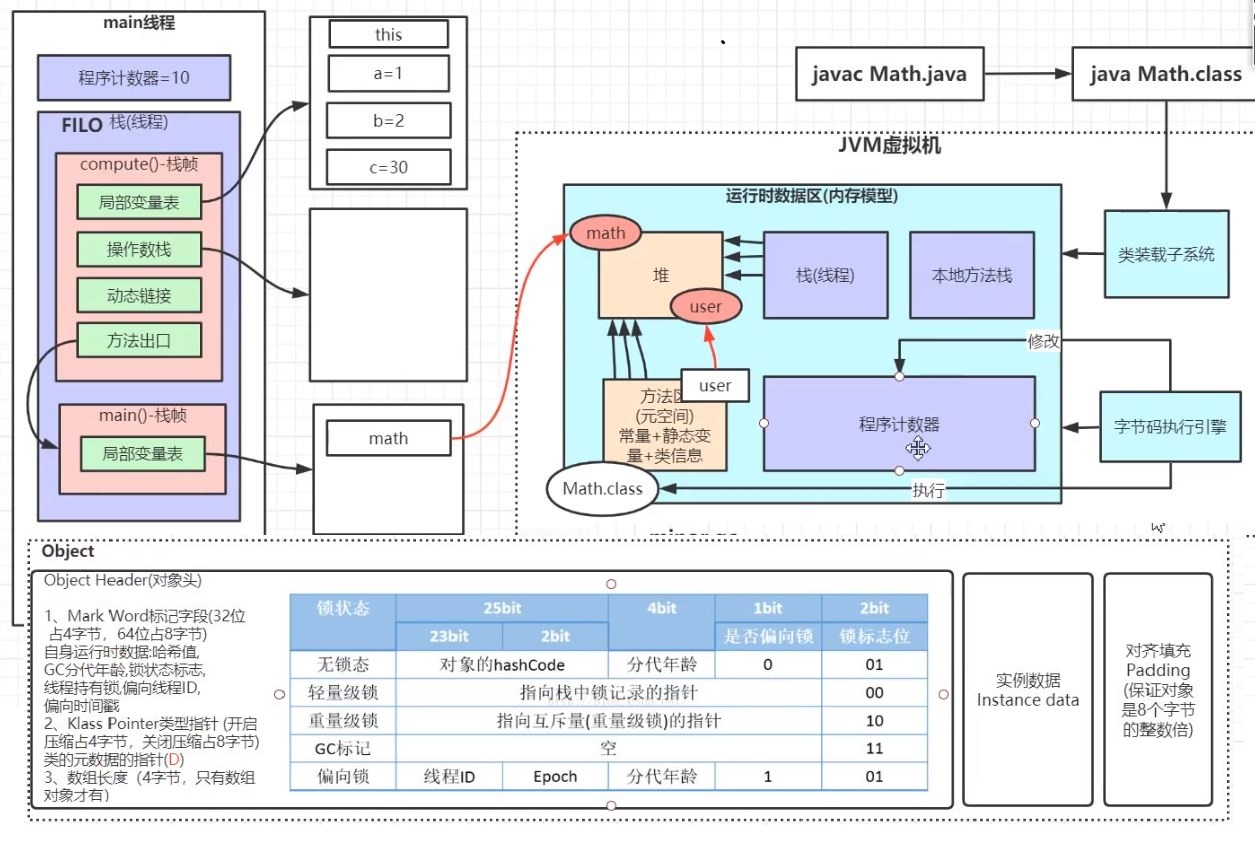
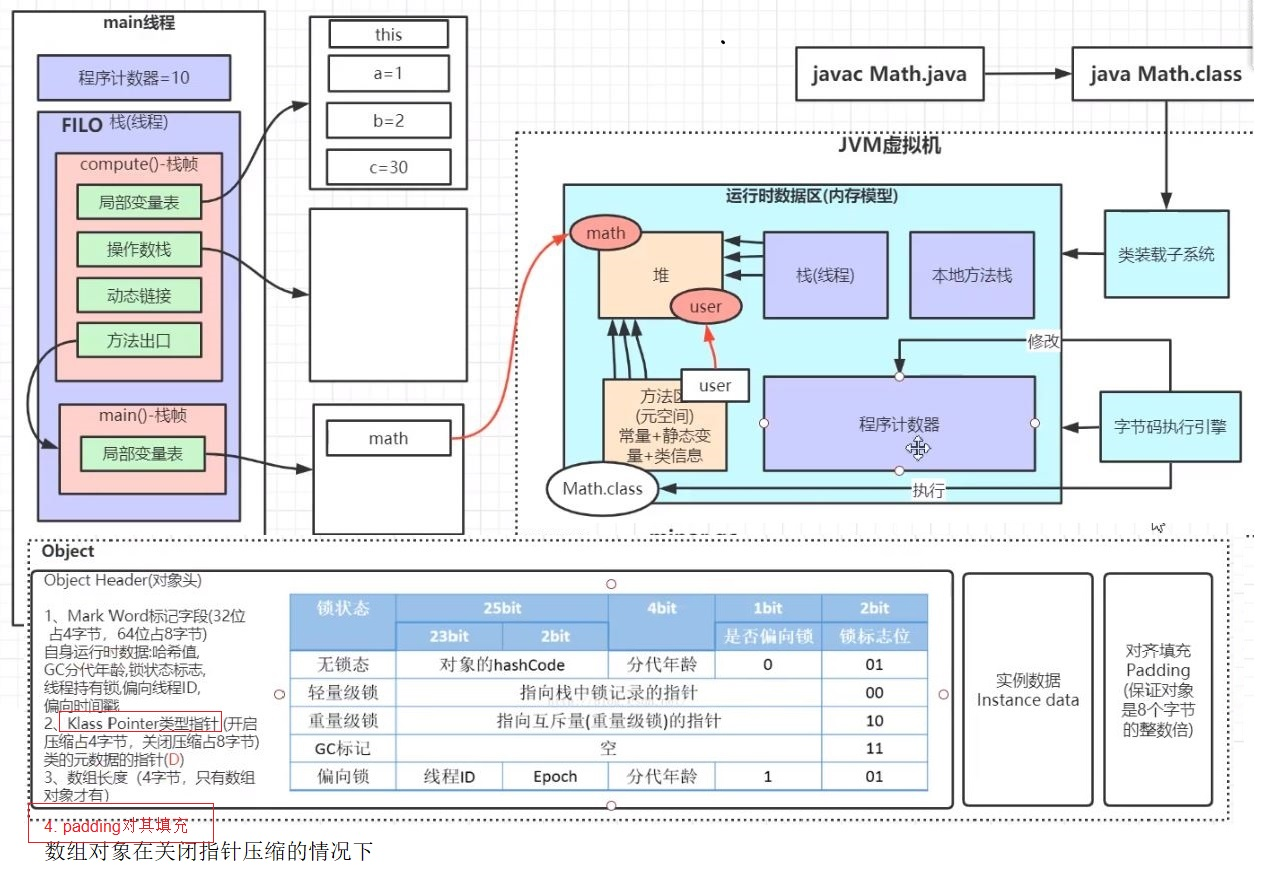
add compressed oops

diff --git a/java.virtual.machine/src/jvm_basics/chapter02_Momery_Section/JavaMemorySection.java b/java.virtual.machine/src/jvm_basics/chapter02_Momery_Section/JavaMemorySection.java
@@ -12,34 +12,35 @@ public class JavaMemorySection {
     //   堆      虚拟机栈/线程栈     本地方法栈       <--- 类装载子系统
     //   方法区            程序计数器               <--- 字节码执行引擎(执行代码)
 
-    // OS单个进程内存分配限制 = 最大堆容量 + 最大方法区容量 + 栈(虚拟机栈, 本地方法栈)
-    // 理论上整个内存没有被其他进程使用的空间甚至硬盘上的虚拟内存都可以被当成堆空间来使用
-
-    // 1. 虚拟机栈/线程栈: FILO
-    //    1.1 为每个线程分配独立的线程栈内存空间
-    //    1.2 栈帧(Stack Frame)：
+    // 1. 虚拟机栈/线程栈: 每个线程分配独立的线程栈内存空间
+    //    1.1 栈帧(Stack Frame)：
     //          线程运行方法时，在线程栈内存中分配一片内存区域，用来存储方法调用时的局部变量
     //          方法结束时，所分配的栈帧内存空间会出栈，满足先进后出的原则
     //          栈帧划分部分: 分析class字节码执行流程(底层细节)
-    //          1.2.1 局部变量表：表中第一个位置_0存储的是this(当前方法的对象)
-    //                          objRef = new MyClass(); objRef存放对象在堆中的内存地址
-    //                          istroe_1 一般是编译期可知的JVM基本数据类型
-    //          1.2.2 操作数栈 : 将指定的数据值(操作数)压入到的内存空间位置, 数据运算过程中临时的内存空间
-    //                          iconst_1
-    //          1.2.3 动态链接 : C++底层源码概念，将符号引用转变成直接引用，然后存储
-    //                          Java里将方法名视为符号，对符号进行解析，通过"符号对应的内存地址"在方法区中找到方法的具体代码
-    //          1.2.4 方法出口 : 方法执行完要返回的位置，始终位置栈帧的栈底
-    //    1.3 线程请求的栈深度过大，超过虚拟机栈允许的深度，则出现StackOverflow
+    //          1.2.1 局部变量表：<-- 局部表当前指针
+    //                表中第一个位置_0存储的是this当前方法的对象
+    //                objRef = new MyClass(); objRef存放对象在堆中的内存地址
+    //                istroe_1 一般是编译期可知的JVM基本数据类型
     //
-    // 2. 程序计数器:
-    //    2.1 线程分配的专有内存空间
-    //    2.2 存储当前线程所执行的字节码行号指示器(code index位置)，用于线程切换后恢复 !!
-    //    2.3 由字节码执行引擎来控制值的动态变化
+    //          1.2.2 操作数栈: <-- 操作数栈当前指针
+    //                iconst_1 / bipush 10 把10压入到栈定的位置
+    //                将指定的数据值(操作数)压入到的内存空间位置, 数据运算过程中临时的内存空间
     //
-    // 3 方法区: 线程共享的内存区域: 存放常量，静态变量，类的信息(对象内存数据)，常量池
-    //    TODO: 常量池
-    //    class文件常量池，运行时常量池，全局常量池
-    //    jdk1.8之前字符串放在永久代，jdk1.8之后移动到堆中
+    //          1.2.3 动态链接 直接地址:
+    //                TODO: 存放这个方法在方法区的内存地址
+    //                Java里将方法名视为符号，对符号进行解析，通过"符号对应的内存地址"在方法区中找到方法的具体代码
+    //                C++底层源码概念，将符号引用转变成直接引用，然后存储
+    //          1.2.4 方法出口 返回地址:
+    //                TODO: 回复现场
+    //                方法执行完要返回的位置，始终位置栈帧的栈底
+    //    1.2 线程请求的栈深度过大，超过虚拟机栈允许的深度，则出现StackOverflow
+
+    // 2. 方法区: 线程共享的内存区域
+    //    3.1 class对象，方法对象集合(main方法对象，add方法对象...)
+    //    3.2 TODO: 存放常量，静态变量，类的信息(对象内存数据)，常量池
+    //    常量池:
+    //      class文件常量池，运行时常量池，全局常量池
+    //      jdk1.8之前字符串放在永久代，jdk1.8之后移动到堆中
     //    TODO: 方法区是规范，元空间和永久代是方法区的具体实现
     //    元空间和永久代是不是同时存在的 ?
     //      < jdk1.8  方法区的具体实现叫永久代，放在堆上，触发GC，产生OOM
@@ -55,17 +56,42 @@ public class JavaMemorySection {
     //      调测，大概设置成物理内存的1/32
     //      预留20%-30%的空间
 
-    // 4. 本地方法栈:
+    // 3. 本地方法栈:
     //    4.1 为底层使用C或者C++语言实现的方法分配的内存空间  private native void start0();
     //    4.2 TODO: 使用"类型名_本地方法名称"在底层openjdk源码中可以找到对应的实现
     //    4.3 本地方法栈一直存在吗? 何时存在?
-    //
+
+    // 4. 程序计数器: 线程分配的专有内存空间
+    //    2.1 存储当前线程所执行的字节码行号指示器(code index位置)，用于线程切换后恢复 !!
+    //    2.2 由字节码执行引擎来控制值的动态变化
+
     // 5. 堆:
-    //    5.1 内存中最大的一块，所有线程共享的一块区域，在虚拟机启动时创建
+    //    5.1 在虚拟机启动时创建，所有线程共享的一块区域
     //    5.2 几乎所有的对象实例都存储在这个内存中，受到GC垃圾回收器的管理
     //    5.3 一般新创建的对象都是存放在Eden区的，当对象撑满Eden内存区的时候触发GC, Minor GC用于回收年轻代
     //                   |<- Survivor区 ->|
     //        Eden  -->     S0   -->  S1   -->  老年代
     //        8/10         1/10     1/10        2/3
     //        |<--------- 年轻代 -------->|
+    //    5.4 堆的默认大小 ?
+    //        物理内存的1/64 - 物理内存的1/4
+    //    5.5 堆 -> 方法区
+    //        klass pointer: 对象指向所属类的class对象的内存地址
+
+
+    // --------------------------------------------------------------------------------------
+    // 常见问题：
+    // 1. 一个方法执行完，JVM需要做的事情?
+    //    恢复局部表指针(根据调用的方法来切换)
+    //    恢复操作数栈指针(根据调用的方法来切换)
+    //    恢复程序计数器
+    //    如果方法有返回地址，需要返回
+    //    清理栈帧(程序计数器调用的方法)
+
+    // 2. this指针何时被赋值? ?
+    //    对象创建后，JVM会为其分配一个指向对象本身的this指针，关键字this只能用于方法方法体内
+    //    局部变量表index=0的位置永远存放的是this
+    //    使用aload_0 把this指针压入栈，方便后面使用
+
+    // 3. JVM底层使用C++来实现，C++生成的对象默认是在native method，是如何放到JVM堆上的?
 }

diff --git a/java.virtual.machine/src/jvm_basics/chapter05_Optimization/JVMOptimization.java b/java.virtual.machine/src/jvm_basics/chapter05_Optimization/JVMOptimization.java
@@ -6,8 +6,41 @@ package jvm_basics.chapter05_Optimization;
 // 3. 解决JVM运行过程中出现的问题(OOM)等
 public class JVMOptimization {
 
-    // 基本实战调优: 合理设置JVM参数的配置，同时进行压力测试，逐步的优化
+    // 1. TODO: 是指针压缩? JDK6之后默认开启 -XX:+/-UsrCompressedOops
+    //    oop: ordinary object pointer 对象指针，
+    //    目的是节省空间，提升jvm运行效率
+    //    开启指针压缩之后，"指针"(包括对象头中的内存指针)的内存地址从8字节压缩成4个字节
+    //    实现原理: 把8字节对齐出来末尾的0x000进行压缩，使用时再补齐0x000
 
+    // 十进制数，没有前缀
+    // 二进制数，前缀是0b
+    // 八进制数，前缀是0o
+    // 十六进制数，前缀是0x
+    //
+    // 16 * 000
+    // 
+    // 0000 0000 0000 0000
+    // 000 000 000 000 000
+    // a    a    a    a
+    //
+    // 2. 对象的大小使用padding八字节对齐(大小一定是八字节的整数倍 000)
+    //
+    //
+    // 2. 如何有效计算对象大小?
+    //    空对象: 没有普通属性的类生成的对象
+    //       开启指针压缩: 占16字节=8字节(Mark Word 64位机)+4字节(内存指针)+0+0+4字节(对齐填充)
+    //       未开启指针压缩: 占16字节=8字节(Mark Word 64位机)+8字节(内存指针)+0+0+0字节
+    //    非空对象:
+    //       开启指针压缩: 占24字节=8+4+8(2个int类型的属性)+4
+    //       未开启指针压缩: 占24字节=8+8+8(2个int类型的属性+0
+    //    数组对象: jol-core
+    //       int[] arr = {1,2,3}
+    //       sout(ClassLayout.parseInstance(arr).toPrintable());
+
+
+    // OS单个进程内存分配限制 = 最大堆容量 + 最大方法区容量 + 栈(虚拟机栈, 本地方法栈)
+    // 基本实战调优: 合理设置JVM参数的配置，同时进行压力测试，逐步的优化
+    //
     // 案例01：                        亿级流量，每天用户点击上亿次的网站
     //                                日活用户500万，平均用户点击20，30次
     //                                日均50万订单，几个高峰期占80%
@@ -17,11 +50,12 @@ public class JVMOptimization {
     //             每秒300KB订单对象的生成，分配到堆中
     //            下单还设计其他的对象，库存，优惠，积分...*20倍
     //                10倍放大的其他操作
-
+    //
     // 调优方案：
     // 1. JVM参数的设置，根据机器的内存空间大小来设置JVM中数据区的大小 ??
     //    设置堆参数: -Xms(堆的最小值) -Xmx(堆的最大值)
-    //    > java -Xms3G -Xmx3G -Xss1M -XX:MetaspaceSize=512M -XX:MaxMetaspaceSize=512M -jar microservice-server.jar
+    //    > java -Xms3G -Xmx3G -Xss1M -XX:MetaspaceSize=512M
+    //           -XX:MaxMetaspaceSize=512M -jar microservice-server.jar
     //                                                       堆(3G)         方法区/元空间(512M)
     //                                                       Eden(800M)
     //              每秒产生60MB的对象，存放到堆空间中   ----->    S0(100M)       线程栈1 -Xss 1M
@@ -32,7 +66,8 @@ public class JVMOptimization {
     //    老年代Old(2G)大约会在5，6分钟被占满，之后触发Full GC
     //
     // 2. 调优堆空间的内存分布 !!
-    //    > java -Xms3G -Xmx3G -Xmn2G -Xss1M -XX:MetaspaceSize=512M -XX:MaxMetaspaceSize=512M -jar microservice-server.jar
+    //    > java -Xms3G -Xmx3G -Xmn2G -Xss1M -XX:MetaspaceSize=512M
+    //           -XX:MaxMetaspaceSize=512M -jar microservice-server.jar
     //                                                       堆(3G)         方法区/元空间(512M)
     //                                                       Eden(1.6G)
     //              每秒产生60MB的对象，存放到堆空间中   ----->    S0(200M)       线程栈1 -Xss 1M

diff --git a/java.virtual.machine/src/jvm_basics/chapter03_Garbage_Collection/BaseGarbageCollection.java b/java.virtual.machine/src/jvm_basics/chapter03_Garbage_Collection/BaseGarbageCollection.java
@@ -11,16 +11,19 @@ public class BaseGarbageCollection {
 
     // GC过程: 当Eden内存区占满之后所触发的垃圾回收机制
     // 0. 为什么年轻代的比例是8:1:1 ?
-    //    对象首先放到Eden区中，大部分对象都是创建都会销毁，真正移动到Survivor区的对象很少，因此比例不高 !!
+    //    对象首先放到Eden区中，大部分对象都是创建都会销毁，真正移动到Survivor区的对象很少，因此比例不高
     // 1. 对象的分代年龄
-    //    一个对象经历过一次GC之后，则分代年龄会加1，该信息存储在堆存储空间中对象的对象头中的Mark Word中，占4bits
+    //    一个对象经历过一次GC之后，则分代年龄会加1
+    //    该信息存储在堆存储空间中对象的对象头中的Mark Word中，占4bits(最大值只需要到15)
     // 2. 年轻代的算法：复制算法
     // 3. 老年代GC算法: 大多是标记整理，CGS使用标记清除算法
+    //
     // 4. 一般什么样的对象会被放入老年代 ??
     //    3.1 大对象直接进入老年代   : 在Survivor区不容易存放
     //    3.2 长期存活的对象        : 单例，静态变量引用的对象，数据连接池，对象缓存池，Spring Bean
-    //    3.3 对象动态年龄判断      : 对象的大小 > Survivor区的50%
+    //    3.3 对象动态年龄判断      : 如果对象的大小 > Survivor区的50%
     //    3.4 老年代空间分配担保机制 : 执行minor gc之前会判断老年代的剩余可用空间，如果可用空间大于所有对象之和...
+    //
     // 5. 如果老年代放满了，则会触发"Full GC"回收整个堆的内存空间，
     //    当"Full GC"回收不了，剩下的都是非垃圾对象，则产出异常: OutOfMemoryError, java heap space
     // 6. 客户端调用/主动通知JVM: System.gc()或Runtime.getRuntime().gc(), 但JVM可以屏蔽掉显式垃圾回收调用

diff --git a/java.virtual.machine/src/jvm_basics/chapter06_ClassFile_Structure/ByteCodes.java b/java.virtual.machine/src/jvm_basics/chapter06_ClassFile_Structure/ByteCodes.java
@@ -25,15 +25,15 @@ public class ByteCodes {
      * javac编译之后的字节码: Java程序在运行过程中，内存数据的流转模型 !!
      * public int compute();
      *   Code:
-     *     0: iconst_1       将int型的1推送至栈顶                      ==> 压入到"操作数栈"
-     *     1: istore_1       将栈顶int型的数值存入第二个本地变量          ==> 对"局部变量表"中的局部变量设置值1 ==> a=1
-     *     2: iconst_2
-     *     3: istore_2
-     *     4: iload_1        将第二个int型本地变量推送至栈顶             ==> 装转到"操作数栈"中
-     *     5: iload_2
-     *     6: iadd           将栈顶两个int型的数值相加，将结果压入栈顶     ==> 装转到"操作数栈"中
-     *     7: bipush     10  将单字节的常量值(-128~127)推送至栈顶
-     *     9: imul           将栈顶两个int型的数值相乘，然后将结果压入栈顶
+     *     0:  iconst_1       将int型的1推送至栈顶                  ==> 压入到"操作数栈"
+     *     1:  istore_1       将栈顶int型的数值存入第二个本地变量      ==> 对"局部变量表"中的局部变量设置值1 ==> a=1
+     *     2:  iconst_2
+     *     3:  istore_2
+     *     4:  iload_1        将第二个int型本地变量推送至栈顶         ==> 装转到"操作数栈"中
+     *     5:  iload_2
+     *     6:  iadd           将栈顶两个int型的数值相加，将结果压入栈顶 ==> 装转到"操作数栈"中
+     *     7:  bipush     10  将单字节的常量值(-128~127)推送至栈顶
+     *     9:  imul           将栈顶两个int型的数值相乘，然后将结果压入栈顶
      *     10: istore_3
      *     11: iload_3
      *     12: ireturn       从当前方法返回int(不同的指令表示返回不同类型的数据)

diff --git a/java.virtual.machine/src/jvm_basics/chapter07_JVM_ClassLoader/CreationObjectProcess.java b/java.virtual.machine/src/jvm_basics/chapter07_JVM_ClassLoader/CreationObjectProcess.java
@@ -1,12 +1,13 @@
 package jvm_basics.chapter07_JVM_ClassLoader;
 
-// JVM如何创建一个对象，主要流程有那些 ?
 public class CreationObjectProcess {
-
+    
+    // TODO: new操作并不是原子操作，在字节码层面由4个指令组成
+    // JVM如何创建一个对象，主要流程有那些 ?
     // MyClass object = new MyClass();
     //                    类的信息会加载到Constant Pool, 在new时找到对应的类信息
     // 4 new              #2  //class//jvm_basics//chapter07_JVM_ClassLoader//MyClass
-    // 7 dup              复制对象在内存空间的地址，在操作数栈中double一份
+    // 7 dup              复制对象在内存空间的地址，在操作数栈double一份
     // 10 invokespecial   使用对象在内存的地址(消耗掉一个对象的引用)，去完成对象的初始化
     // 11 astore_3
 
@@ -18,10 +19,4 @@ public class CreationObjectProcess {
     // 5. 设置对象头Object Header, 完善对象的信息
     // 6. 执行<init>方法, 构造方法
     // 7. 对象创建完成, 位于堆空间的Eden区
-
-    // TODO: this指针何时被赋值
-    // 当一个对象创建后，Java虚拟机就会为其分配一个指向对象本身的this指针
-    // 关键字this只能用于方法方法体内，并且位于"栈帧"顶部index=0的位置
-
-    // JVM底层使用C++来实现，C++生成的对象默认是在native method，是如何放到JVM堆上的?
 }

diff --git a/java.virtual.machine/src/jvm_basics/JavaJvmMaster.java b/java.virtual.machine/src/jvm_basics/JavaJvmMaster.java
@@ -1,7 +1,8 @@
-package jvm_master;
+package jvm_basics;
 
 // 底层实现：
 // OpenJDK8源码，手写GC算法，JVM，CGI，编译原理，JNI版线程池
+// Java的代码在底层实际上运行的是C++代码
 public class JavaJvmMaster {
 
     // 1. 跨平台的本质: 汇编语言的不同

diff --git a/java.virtual.machine/src/jvm_basics/chapter06_ClassFile_Structure/ClassFileStructure.java b/java.virtual.machine/src/jvm_basics/chapter06_ClassFile_Structure/ClassFileStructure.java
@@ -1,5 +1,7 @@
 package jvm_basics.chapter06_ClassFile_Structure;
 
 // TODO: Class类文件的结构组成
+// 类加载子系统是如何解析字节码文件? 手写字节码文解析器
 public class ClassFileStructure {
+    
 }

diff --git a/java.virtual.machine/src/jvm_basics/chapter05_Optimization/MemoryProblems/MemoryLeakTest.java b/java.virtual.machine/src/jvm_basics/chapter05_Optimization/MemoryProblems/MemoryLeakTest.java
@@ -1,4 +1,4 @@
-package jvm_basics.chapter02_Momery_Section.MemoryProblems;
+package jvm_basics.chapter05_Optimization.MemoryProblems;
 
 import jvm_basics.base.DemoClass;
 

diff --git a/java.virtual.machine/src/jvm_basics/chapter05_Optimization/MemoryProblems/UnsafeMemoryAllocation.java b/java.virtual.machine/src/jvm_basics/chapter05_Optimization/MemoryProblems/UnsafeMemoryAllocation.java
@@ -1,4 +1,4 @@
-package jvm_basics.chapter02_Momery_Section.MemoryProblems;
+package jvm_basics.chapter05_Optimization.MemoryProblems;
 
 import sun.misc.Unsafe;
 
